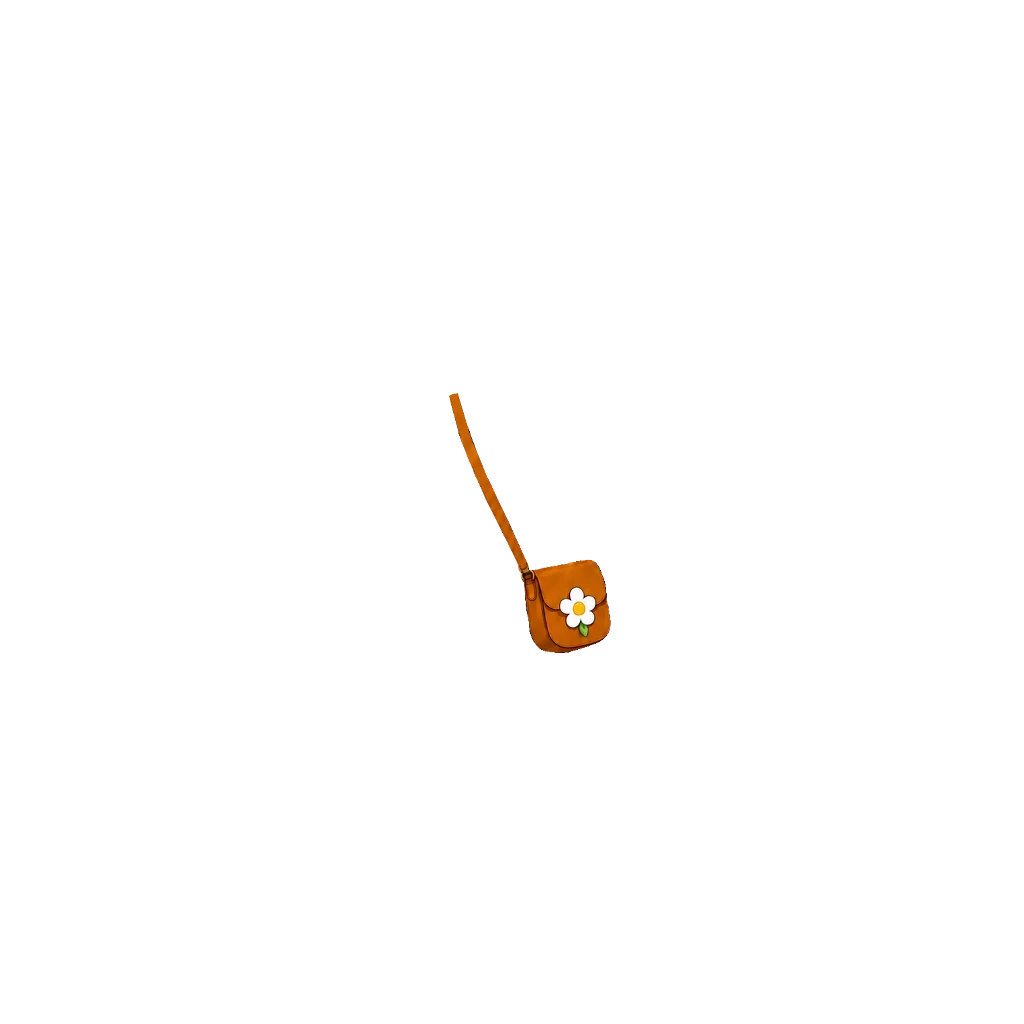
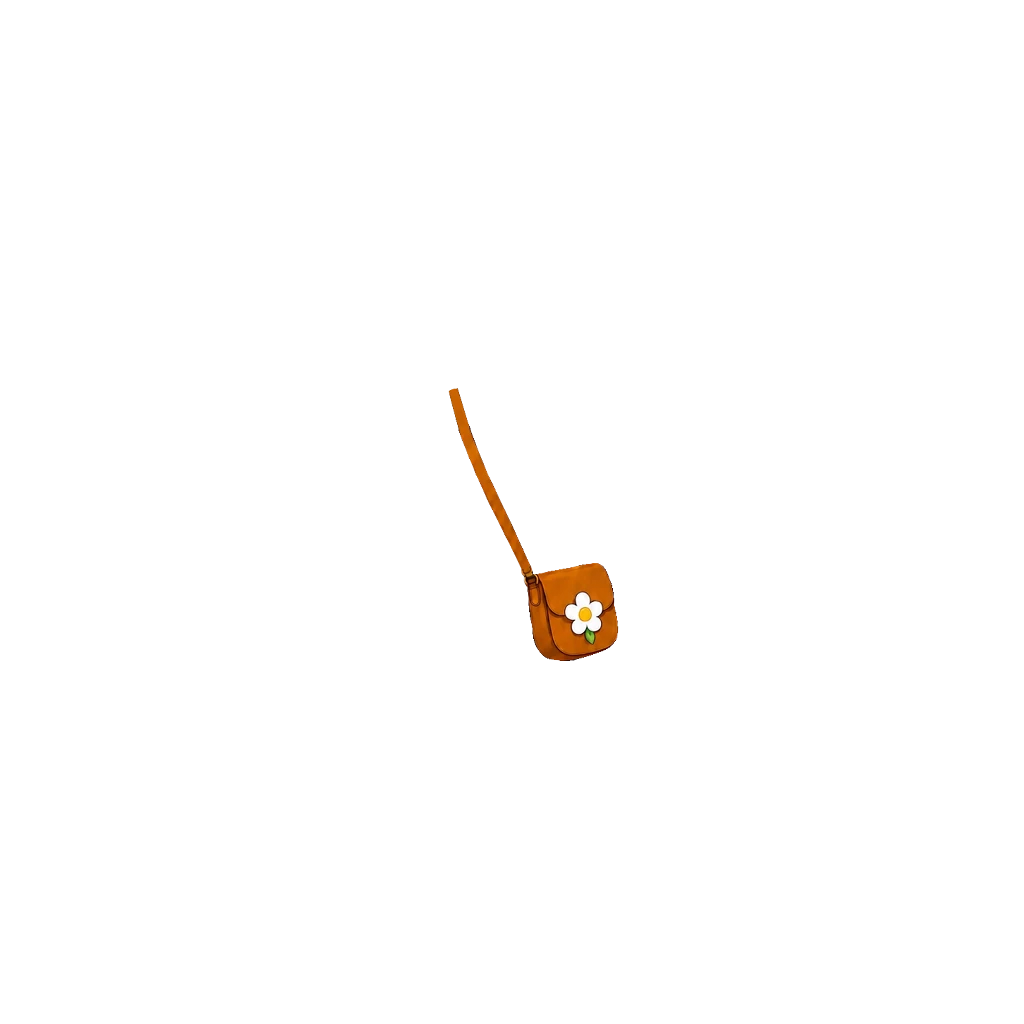
들꽃 크로스백 앞·뒤장 5% 크게, 위로 5 (#940)
들꽃 탐험가 옷이 아닐 때 쓰는 두 장만 바꾸고, 들꽃 탐험가 전용 그림은 그대로 둔다.

Claude-Session: https://claude.ai/code/session_018maNuYqDfFyRSe9uKpZhPR

Changed region(s): [[0.5, 0.5312, 0.625, 0.6562], [0.4688, 0.4688, 0.5, 0.5312], [0.4375, 0.375, 0.4688, 0.4375]]

diff --git a/src/data/avatarEquipment.js b/src/data/avatarEquipment.js
@@ -514,8 +514,9 @@ export const AVATAR_CATALOG = [
      [2026-10-05] 2% 크게(배율 0.699, 끈 윗끝 고정)·왼쪽으로 1(끈 윗끝 (460,421)). 탑재 상자 (459,420,612,655). img ?v=6.
      [2026-10-05] 위로 2·왼쪽으로 2(끈 윗끝 (458,419)). 탑재 상자 (457,418,610,653). img ?v=7. [2026-10-05] 들꽃 탐험가 옷(top_vest)일 때만 위 그림(topVariant, z 38). 그 밖의 옷·맨몸은 사용자 원화 두 장으로 —
      앞장(끈 긴 가방, 233×364, 원래 원화와 몸통 매칭 0.986·배율 0.985) zFront 48 맨 앞, 뒤장(오른쪽 뒤 끈 조각 32×43, 원래 원화 (169,170) 자리) z 14 맨 뒤.
-     가방 위치는 위 최종 배치와 같은 변환(배율 0.699·-1°·이음매 (518,560)). 앞 상자 (449,393,611,653), 뒤 상자 (570,532,591,562). */
-  { id: "back_crossbag_girl", slot: "back", label: "들꽃 크로스백", emoji: "👜", price:DECOR_PRICE.rare, rarity: "rare", theme: "adventure", forGender: "girl", z: 14, img: "assets/avatar/back/wildflower-crossbag-back-girl.webp", imgFront: "assets/avatar/back/wildflower-crossbag-front-girl.webp", zFront: 48, topVariant: { top_vest: { img: "assets/avatar/back/wildflower-crossbag-girl.webp?v=7", z: 38 } }, thumb: "assets/avatar/thumb/back_crossbag_girl.webp" },
+     가방 위치는 위 최종 배치와 같은 변환(배율 0.699·-1°·이음매 (518,560)). 앞 상자 (449,393,611,653), 뒤 상자 (570,532,591,562).
+     [2026-10-05] 앞·뒤장 사용자 조정 — 5% 크게(배율 0.734, 앞장 끈 윗끝 (457,393) 고정)·위로 5. 앞 상자 (448,388,619,661), 뒤 상자 (575,533,598,565). img ?v=2. */
+  { id: "back_crossbag_girl", slot: "back", label: "들꽃 크로스백", emoji: "👜", price:DECOR_PRICE.rare, rarity: "rare", theme: "adventure", forGender: "girl", z: 14, img: "assets/avatar/back/wildflower-crossbag-back-girl.webp?v=2", imgFront: "assets/avatar/back/wildflower-crossbag-front-girl.webp?v=2", zFront: 48, topVariant: { top_vest: { img: "assets/avatar/back/wildflower-crossbag-girl.webp?v=7", z: 38 } }, thumb: "assets/avatar/thumb/back_crossbag_girl.webp" },
   /* 우주 부츠 — 우주복 바지 밑단(y1425 근처)에 발목깃이 물리게 맞췄다. */
   /* [2026-10-03] 새 원화로 교체 — 남색·흰 우주 부츠(하늘색 띠·주황 탭) 두 짝, 사용자 원화 352×173. 위 탑재값은 옛 판 기록.
      여아 신발과 같은 방식 — 두 짝을 따로 잘라 원화 부츠목 가운데(왼짝 x85 · 오른짝 x56.5)를 남아 다리 가운데(x450.5 · x574.5)에,

diff --git a/art-src/README.md b/art-src/README.md
@@ -634,5 +634,5 @@ bbox로 여백만 잘라내고 배포본은 높이 480px로 축소했다(전부 
 | thumb-src-hat_captain_boy.webp | **상점 목록 그림 남아 꼬마선장 모자 (hat_captain_boy, 사용자 원화 2026-10-05)** — 상점 카드에만 보이는 모자 아이콘(쓰는 그림과 별개). 410×256 투명 배경, 세로 160px 로 줄여 탑재(thumb ?v=2) | avatar/thumb/hat_captain_boy.webp |
 | thumb-src-hat_helmet_boy.webp | **상점 목록 그림 남아 우주 헬멧 (hat_helmet_boy, 사용자 원화 2026-10-05)** — 상점 카드에만 보이는 모자 아이콘(쓰는 그림과 별개). 420×335 투명 배경, 세로 160px 로 줄여 탑재(thumb ?v=2) | avatar/thumb/hat_helmet_boy.webp |
 | wildflower-crossbag-girl-src.webp | **들꽃 크로스백 원화 여아 (사용자 원화 2026-10-05)** — 갈색 가죽 크로스백·흰 들꽃 장식, 들꽃 탐험가 옷과 짝. 사용자 배치 참고 그림(얼굴 매칭 0.915)에 맞춰 가방 몸통 매칭(0.986) 배율 0.73·-1° 회전·이음매 (526,568), 끈은 떼어 옷깃 아래 끝(463,421)까지 늘이고 y419 위는 지움. z 38. 탑재 상자 (462,420,622,665) (img ?v=2). 사용자 조정 5% 작게 — 배율 0.694·끈 윗끝 고정·이음매 (523,561), 탑재 상자 (462,420,614,653) (img ?v=3). 5% 더 작게 — 배율 0.659·이음매 (520,554), 탑재 상자 (462,420,606,641) (img ?v=4). 4% 크게·왼쪽으로 2 — 배율 0.686·끈 윗끝 (461,421), 탑재 상자 (460,420,610,650) (img ?v=5). 2% 크게·왼쪽으로 1 — 배율 0.699·끈 윗끝 (460,421), 탑재 상자 (459,420,612,655) (img ?v=6). 위로 2·왼쪽으로 2 — 끈 윗끝 (458,419), 탑재 상자 (457,418,610,653) (img ?v=7). 상점 그림은 원화를 세로 160px 로 | avatar/back/wildflower-crossbag-girl.webp · thumb/back_crossbag_girl.webp |
-| wildflower-crossbag-front-girl-src.webp | **들꽃 크로스백 앞장 원화 여아 (사용자 원화 2026-10-05)** — 끈이 조금 긴 가방(뒤 끈 없음) 233×364. 들꽃 탐험가 옷이 아닐 때 맨 앞(zFront 48). 원래 원화와 몸통 매칭 0.986·배율 0.985, 들꽃 배치와 같은 변환. 탑재 상자 (449,393,611,653) | avatar/back/wildflower-crossbag-front-girl.webp |
-| wildflower-crossbag-back-girl-src.webp | **들꽃 크로스백 뒤장 원화 여아 (사용자 원화 2026-10-05)** — 오른쪽 뒤로 넘어가는 끈 조각 32×43(원래 원화 (169,170) 자리). 들꽃 탐험가 옷이 아닐 때 맨 뒤(z 14). 탑재 상자 (570,532,591,562) | avatar/back/wildflower-crossbag-back-girl.webp |
+| wildflower-crossbag-front-girl-src.webp | **들꽃 크로스백 앞장 원화 여아 (사용자 원화 2026-10-05)** — 끈이 조금 긴 가방(뒤 끈 없음) 233×364. 들꽃 탐험가 옷이 아닐 때 맨 앞(zFront 48). 원래 원화와 몸통 매칭 0.986·배율 0.985, 들꽃 배치와 같은 변환. 탑재 상자 (449,393,611,653) → 5% 크게·위로 5(배율 0.734) (448,388,619,661) (img ?v=2) | avatar/back/wildflower-crossbag-front-girl.webp |
+| wildflower-crossbag-back-girl-src.webp | **들꽃 크로스백 뒤장 원화 여아 (사용자 원화 2026-10-05)** — 오른쪽 뒤로 넘어가는 끈 조각 32×43(원래 원화 (169,170) 자리). 들꽃 탐험가 옷이 아닐 때 맨 뒤(z 14). 탑재 상자 (570,532,591,562) → 5% 크게·위로 5(배율 0.734) (575,533,598,565) (img ?v=2) | avatar/back/wildflower-crossbag-back-girl.webp |
